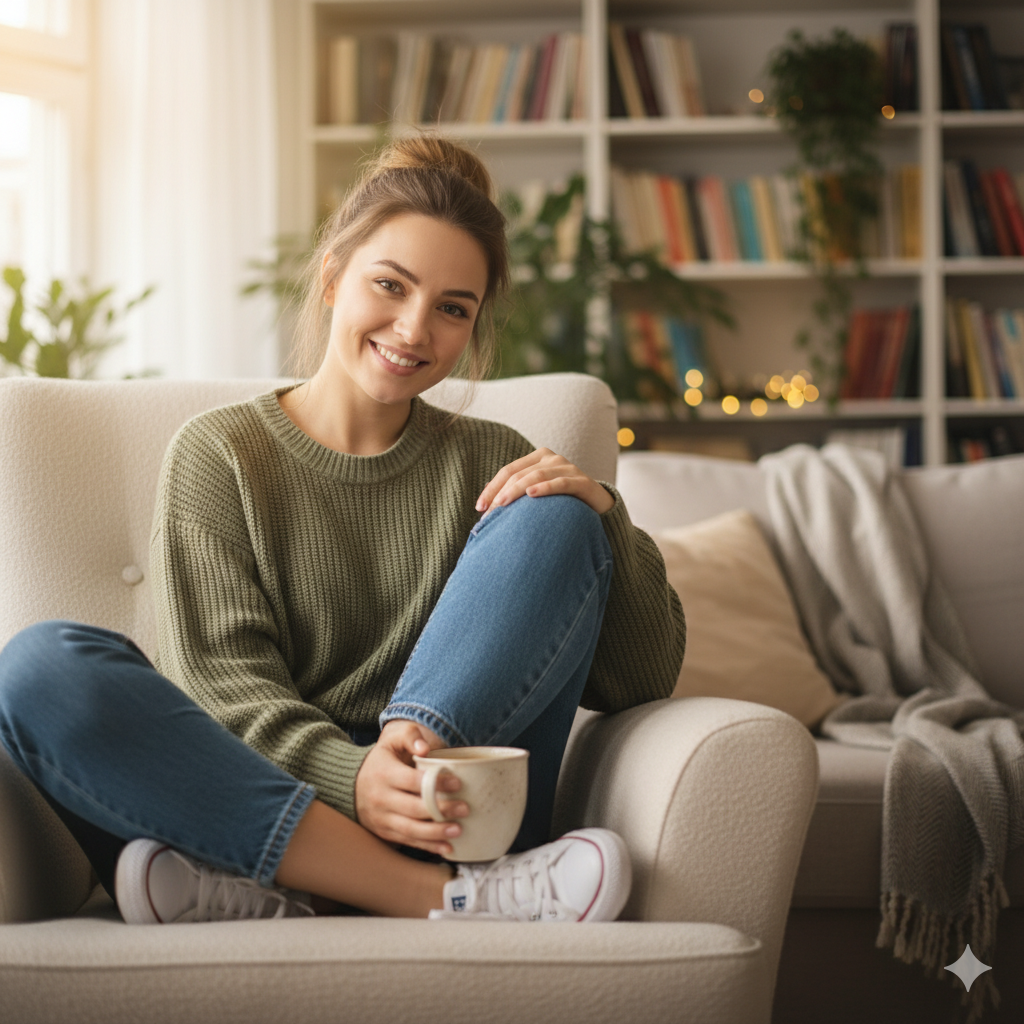
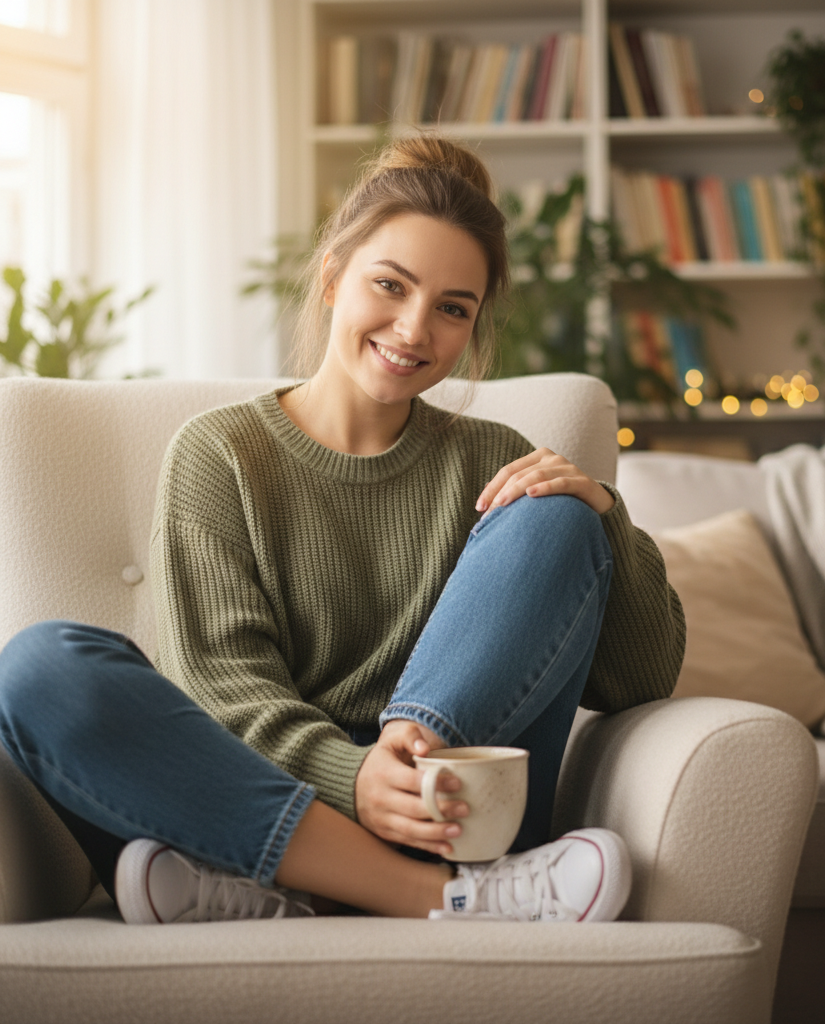
fix: landing page

diff --git a/landing/app.css b/landing/app.css
@@ -1604,7 +1604,6 @@ body.page-body {
         flex: none;
         padding: 2rem;
         width: 100%;
-        height: 60%;
         display: flex;
         flex-direction: column;
         justify-content: flex-start;
@@ -1927,7 +1926,6 @@ body.page-body {
         flex: none;
         padding: 1.5rem;
         width: 100%;
-        height: 65%;
         display: flex;
         flex-direction: column;
         justify-content: flex-start;
@@ -2873,8 +2871,7 @@ body.page-body {
 
 .step-image {
     width: 100%;
-    height: 200px;
-    margin-bottom: 1rem;
+    max-height: 100%;
     border-radius: 15px;
     overflow: hidden;
     position: relative;
@@ -2939,18 +2936,17 @@ body.page-body {
 /* Chat Container Styles */
 .chat-container {
     width: 100%;
-    height: 350px;
     background: rgba(0, 0, 0, 0.3);
     border-radius: 15px;
-    padding: 1rem;
     overflow-y: auto;
-    margin-top: 1rem;
+    padding: 1rem;
+    padding-top: 2rem;
 }
 
 .chat-message {
     display: flex;
     align-items: flex-start;
-    margin-bottom: 0.6rem;
+    margin-bottom: 1rem;
     animation: fadeInUp 0.5s ease-out;
 }
 
@@ -2992,6 +2988,7 @@ body.page-body {
     max-width: 80%;
     border: 1px solid rgba(255, 255, 255, 0.2);
     margin-left: 0.5rem;
+    margin-bottom: 0.6rem;
 }
 
 .ai-message .message-content {
@@ -3178,16 +3175,12 @@ body.page-body {
     }
 
     .process-step {
-        max-width: 100%;
+        max-width: 90%;
         height: auto;
-        min-height: 450px;
-        width: 100%;
+        min-height: 30rem;
+        width: 90%;
         padding: 1.5rem 1rem;
-    }
-
-    .step-image {
-        height: 150px;
-        margin-bottom: 0.8rem;
+        margin: 0 auto;
     }
 
     .step-number {
@@ -3202,7 +3195,7 @@ body.page-body {
 
     .process-step .fact-content {
         padding: 0.8rem;
-        margin-top: 0.5rem;
+        margin-top: 1rem;
     }
 
     .process-step .fact-number {
@@ -3238,8 +3231,9 @@ body.page-body {
     }
 
     .chat-container {
-        padding: 0.8rem;
-        height: 300px;
+        padding: 1rem;
+        padding-top: 2rem;
+        height: 24rem;
     }
 
     .message-content p {
@@ -3269,14 +3263,10 @@ body.page-body {
 
     .process-step {
         height: auto;
-        min-height: 400px;
-        width: 100%;
+        min-height: 30rem;
+        width: 90%;
         padding: 1.2rem 0.8rem;
-    }
-
-    .step-image {
-        height: 140px;
-        margin-bottom: 0.6rem;
+        margin: 0 auto;
     }
 
     .step-number {
@@ -3289,10 +3279,6 @@ body.page-body {
         font-size: 1.2rem;
     }
 
-    .process-step .fact-content {
-        padding: 0.6rem;
-        margin-top: 0.4rem;
-    }
 
     .process-step .fact-number {
         font-size: 1.5rem;
@@ -3324,8 +3310,8 @@ body.page-body {
     }
 
     .chat-container {
-        padding: 0.6rem;
-        height: 280px;
+        padding: 2rem;
+        padding-top: 2rem;
     }
 
     .message-content {

diff --git a/landing/index.html b/landing/index.html
@@ -152,9 +152,6 @@
                     <div class="step-image">
                         <img src="images/girl-1.png" alt="User Photo">
                     </div>
-                    <div class="step-description">
-                        <p>Your photo will be used by our AI to generate personalized images for each fact, creating a unique visual story that represents you.</p>
-                    </div>
                 </div>
 
                 <!-- Step 2: AI Chat -->
